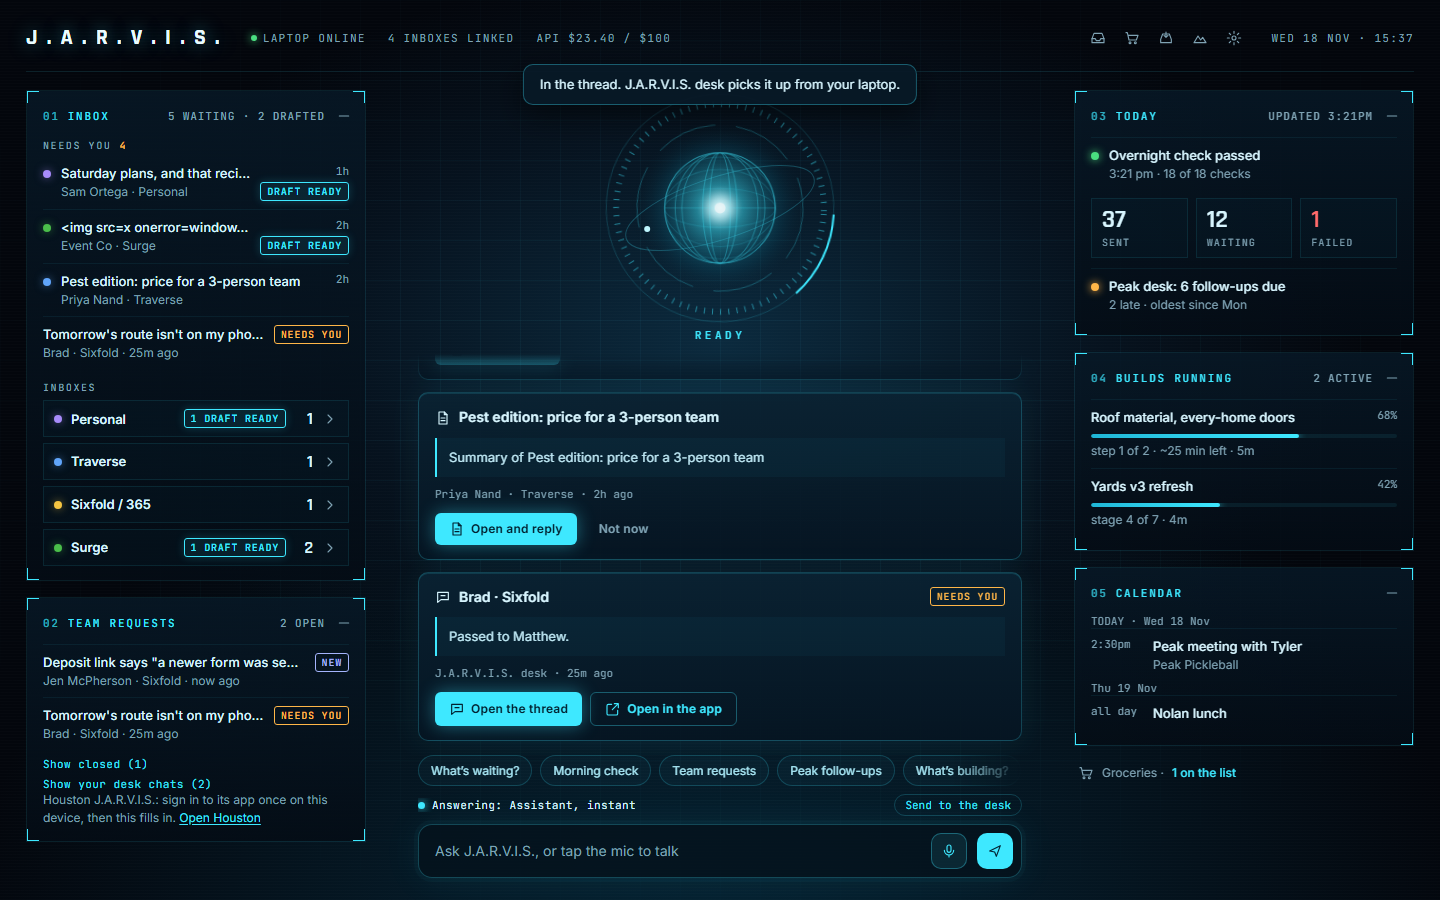
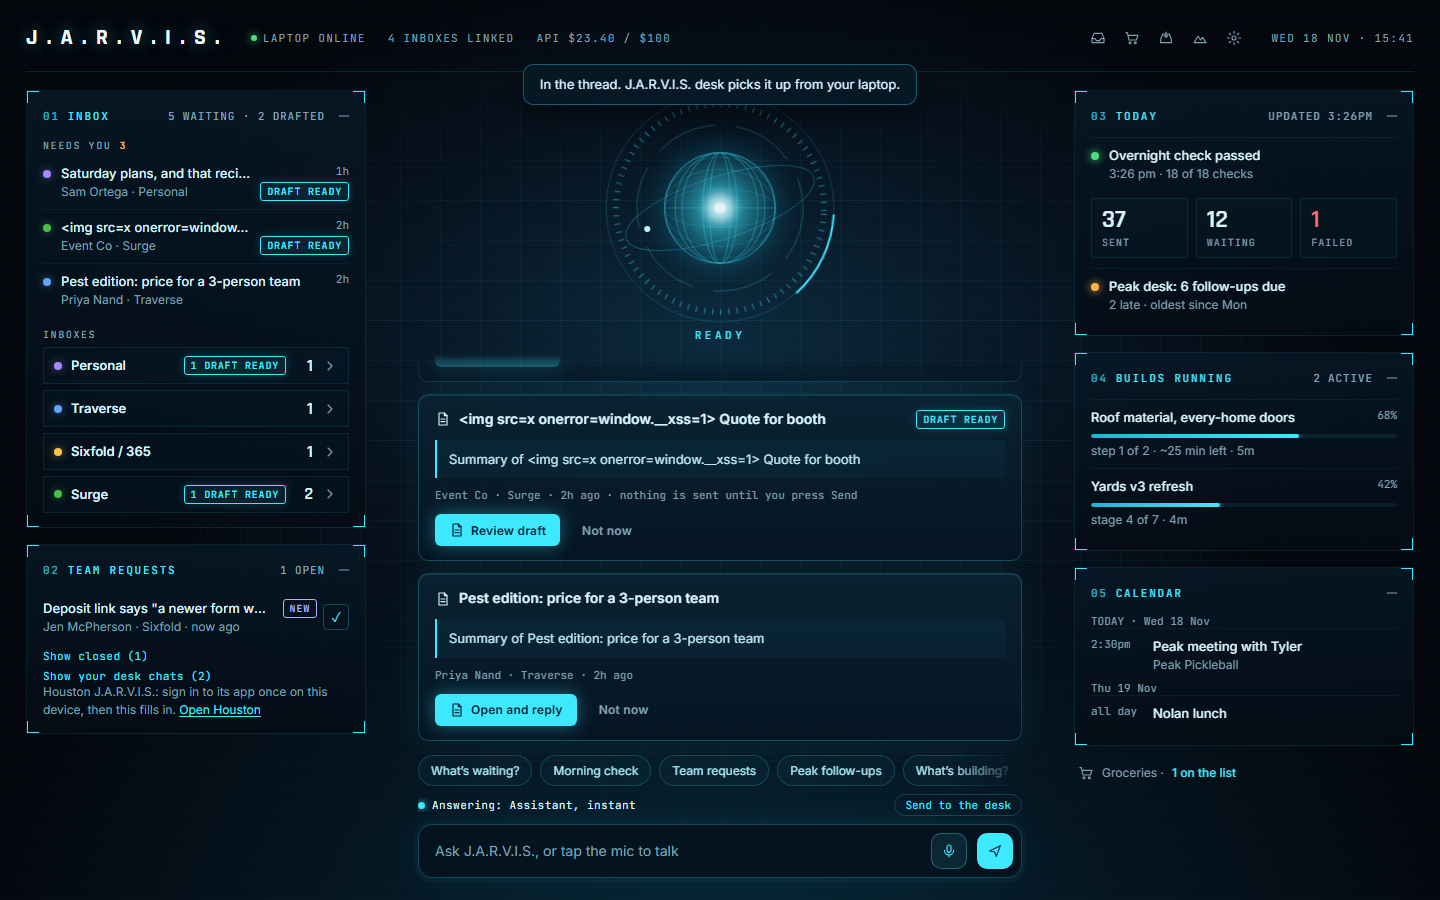
J.A.R.V.I.S. Team requests: a check button on each request takes it off Matthew's panel (saved on the server, every device); the staff chat is not closed, and a newer message brings it back. Tests 111/111; LIVE

diff --git a/assistant/jarvis/index.html b/assistant/jarvis/index.html
@@ -63,6 +63,7 @@ button.li:hover .lt{color:#fff}
 .more{display:block;font:11px "JetBrains Mono",monospace;color:var(--c);padding:6px 0 0;letter-spacing:.04em;text-align:left}
 .empty{font-size:12.5px;color:var(--mut);padding:4px 0}
 .hint{font-size:12px;color:var(--mut);line-height:1.5}
+.titem{display:flex;align-items:center;gap:6px}.titem>.li{flex:1;min-width:0}.tcheck{flex:none;width:26px;height:26px;border:1px solid #3ee8ff44;border-radius:4px;color:var(--c,#3ee8ff);background:transparent;cursor:pointer;font-size:13px}.tcheck:hover{background:#3ee8ff14}
 .bcheck{margin-top:6px;font:11px "JetBrains Mono",monospace;letter-spacing:.06em;color:var(--c,#3ee8ff);border:1px solid #3ee8ff44;border-radius:4px;padding:3px 8px;background:transparent;cursor:pointer}.bcheck:hover{background:#3ee8ff14}
 .hint a,.hint button{color:var(--c);text-decoration:underline;text-underline-offset:2px}
 /* the collapsible inbox rows (Matthew: "making them collaspable or some structure like that to condense space") */
@@ -372,7 +373,12 @@ button.li:hover .lt{color:#fff}
       .sort(function (a, b) { return ((b.priority === 'high') - (a.priority === 'high')) || b.date - a.date; });
   }
   function drafted() { return items().filter(function (i) { return i.draftId; }).length; }
-  function tickets() { var all = []; DESKS.forEach(function (d) { var t = S.team[d.id]; if (t && t.ok) (t.tickets || []).forEach(function (x) { all.push({ src: d, t: x }); }); }); return all.sort(function (a, b) { return b.t.updated - a.t.updated; }); }
+  /* 18 Nov: a request Matthew checked off is left out until something newer arrives in it (S.st.teamHidden, kept on the server) */
+  function tickets() { var all = [], hid = (S.st && S.st.teamHidden) || {}; DESKS.forEach(function (d) { var t = S.team[d.id]; if (t && t.ok) (t.tickets || []).forEach(function (x) { if ((hid[d.id + ':' + x.id] || 0) >= x.updated) return; all.push({ src: d, t: x }); }); }); return all.sort(function (a, b) { return b.t.updated - a.t.updated; }); }
+  function teamItem(x) {   /* a request row with its Check off */
+    var w = el('div', 'titem'), r = ticketRow(x), ck = btn('✓', null, 'tcheck', function () { ck.disabled = true; apost('jvteamhide', { key: x.src.id + ':' + x.t.id, updated: x.t.updated }).then(function (j) { if (j.ok) { S.st = S.st || {}; S.st.teamHidden = S.st.teamHidden || {}; S.st.teamHidden[x.src.id + ':' + x.t.id] = x.t.updated; draw(); toast('Checked off. It comes back if someone writes in it again.'); } else { ck.disabled = false; toast(j.error || 'Could not check it off.'); } }, function () { ck.disabled = false; toast('No connection.'); }); });
+    ck.title = 'Check off (done)'; ck.setAttribute('aria-label', 'Check off this request'); add(w, r, ck); return w;
+  }
   function teamOpen() { return tickets().filter(function (x) { return x.t.by !== ME && x.t.status !== 'closed'; }); }
   function teamNeedsMe() { return teamOpen().filter(function (x) { return x.t.status === 'matthew'; }); }
   function laptop() { var p = S.st && S.st.pushedAt; if (!p) return { on: false, text: 'Laptop: no word yet' }; var m = Math.round((Date.now() / 1000 - p) / 60); return m <= 45 ? { on: true, text: 'Laptop online', m: m } : { on: false, text: 'Laptop last seen ' + (m < 120 ? m + ' min' : Math.round(m / 60) + ' h') + ' ago', m: m }; }
@@ -461,10 +467,10 @@ button.li:hover .lt{color:#fff}
       var out = [], miss = [];
       DESKS.forEach(function (d) { var t = S.team[d.id]; if (!t) return; if (t._status === 401) miss.push(d); });
       var open = teamOpen(), closed = tickets().filter(function (x) { return x.t.by !== ME && x.t.status === 'closed'; }), mine = tickets().filter(function (x) { return x.t.by === ME; });
-      open.slice(0, 8).forEach(function (x) { out.push(ticketRow(x)); });
+      open.slice(0, 8).forEach(function (x) { out.push(teamItem(x)); });
       if (!open.length && !miss.length) out.push(el('div', 'empty', Object.keys(S.team).length ? 'No open requests from the team.' : 'Looking…'));
       if (closed.length) { out.push(btn((S.closedOpen ? 'Hide' : 'Show') + ' closed (' + closed.length + ')', null, 'more', function () { S.closedOpen = !S.closedOpen; draw(); })); if (S.closedOpen) closed.slice(0, 10).forEach(function (x) { out.push(ticketRow(x)); }); }
-      if (mine.length) { out.push(btn((S.mineOpen ? 'Hide' : 'Show') + ' your desk chats (' + mine.length + ')', null, 'more', function () { S.mineOpen = !S.mineOpen; draw(); })); if (S.mineOpen) mine.slice(0, 10).forEach(function (x) { out.push(ticketRow(x)); }); }
+      if (mine.length) { out.push(btn((S.mineOpen ? 'Hide' : 'Show') + ' your desk chats (' + mine.length + ')', null, 'more', function () { S.mineOpen = !S.mineOpen; draw(); })); if (S.mineOpen) mine.slice(0, 10).forEach(function (x) { out.push(teamItem(x)); }); }
       miss.forEach(function (d) { var h = el('div', 'hint'); add(h, d.name + ' J.A.R.V.I.S.: sign in to its app once on this device, then this fills in. ', btn('Open ' + d.name, null, null, function () { openView('page', d); })); out.push(h); });
       return out;
     },

diff --git a/assistant/server/private/lib/jarvis.php b/assistant/server/private/lib/jarvis.php
@@ -28,7 +28,7 @@ function jvStatus(): array {
     }
     /* calendar (18 Nov): only the Traverse inbox's own Google Calendar, which Matthew fills himself or asks for ("jarvis shouldnt show the
        dates from my emails in the calendar section"). No invitations from the inboxes. */
-    return ['ok' => true, 'now' => $now, 'pushedAt' => $pushed, 'overnight' => $over, 'builds' => $builds,
+    return ['ok' => true, 'now' => $now, 'pushedAt' => $pushed, 'overnight' => $over, 'builds' => $builds, 'teamHidden' => jvTeamHidden(),
         'calendar' => jvCalendar()];
 }
 /** finished builds Matthew checked off (18 Nov: "allow me the option to check it off so it doesnt stay on the screen"): id => the build's time */
@@ -37,6 +37,15 @@ function jvHide(string $id, int $at): array {
     if (!preg_match('/^[A-Za-z0-9._-]{1,40}$/', $id) || $at <= 0) return ['ok' => false, 'error' => 'Not a build.'];
     $h = jvHidden(); $h[$id] = $at; $h = array_slice($h, -60, null, true);
     $f = aDataDir() . '/jarvis/hidden-builds.json'; @mkdir(dirname($f), 0700, true); file_put_contents($f, json_encode($h), LOCK_EX); @chmod($f, 0600);
+    return ['ok' => true];
+}
+/** team requests Matthew checked off (18 Nov: "I also need a way to check off the team request chats when they are complete"): "<desk>:<ticket>"
+    => the ticket's last update. Only his J.A.R.V.I.S. view: the staff member's chat is not closed, and any newer message shows it again. */
+function jvTeamHidden(): array { $f = aDataDir() . '/jarvis/hidden-team.json'; $h = is_file($f) ? json_decode((string) file_get_contents($f), true) : []; return is_array($h) ? $h : []; }
+function jvTeamHide(string $key, int $upd): array {
+    if (!preg_match('/^[a-z0-9-]{1,40}:h[0-9]{14}[0-9a-f]{4}$/', $key) || $upd <= 0) return ['ok' => false, 'error' => 'Not a team request.'];
+    $h = jvTeamHidden(); unset($h[$key]); $h[$key] = $upd; $h = array_slice($h, -300, null, true);
+    $f = aDataDir() . '/jarvis/hidden-team.json'; @mkdir(dirname($f), 0700, true); file_put_contents($f, json_encode($h), LOCK_EX); @chmod($f, 0600);
     return ['ok' => true];
 }
 /** the next 7 days of the Traverse inbox's primary calendar (any connected calendar if Traverse has none), cached 5 minutes. Read only. */

diff --git a/assistant/server/private/app.php b/assistant/server/private/app.php
@@ -53,6 +53,7 @@ if ($action === 'home') {
 }
 /* J.A.R.V.I.S., the merged page (2026-11-18): the laptop's pushed status (overnight check, builds) and the calendar placeholder; lib/jarvis.php */
 if ($action === 'jvstatus') out(jvStatus());
+if ($action === 'jvteamhide') { if (!$isPost) out(['ok' => false], 405); out(jvTeamHide((string) ($body['key'] ?? ''), (int) ($body['updated'] ?? 0))); }
 if ($action === 'jvbuildhide') { if (!$isPost) out(['ok' => false], 405); out(jvHide((string) ($body['id'] ?? ''), (int) ($body['at'] ?? 0))); }
 if (!$isPost) out(['ok' => false, 'error' => 'POST needed.'], 405);
 if ($action === 'setup') {   /* keys go in here, never through chat; an empty field leaves the saved one alone */
